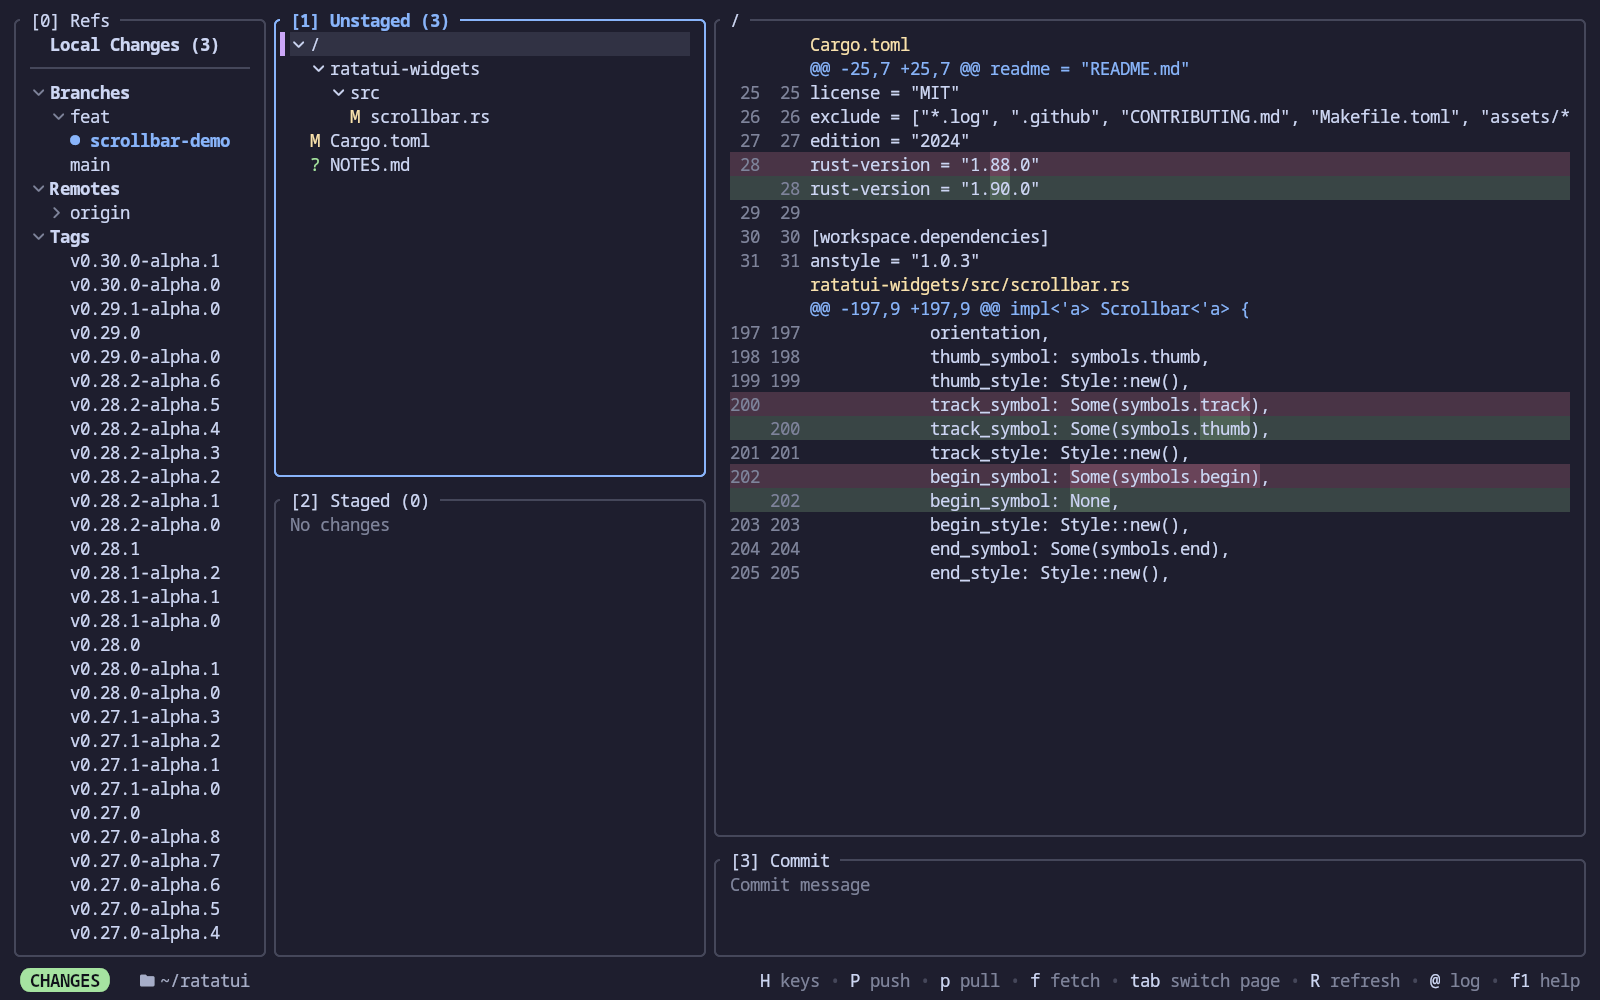
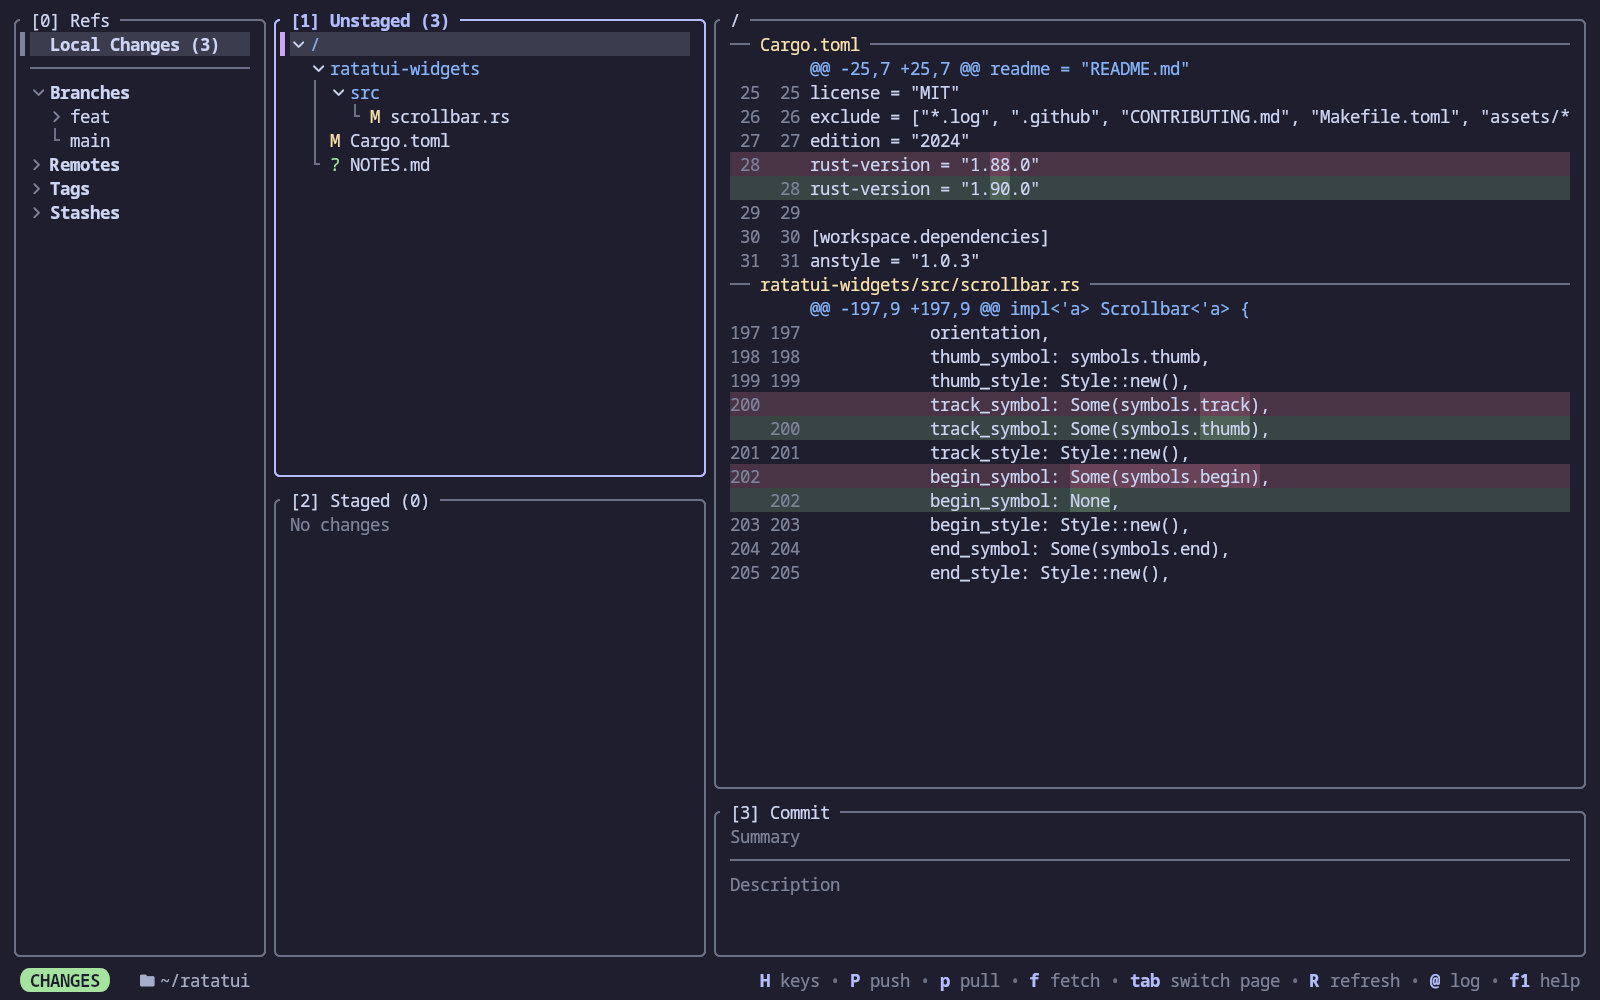
update demo

diff --git a/TODO.md b/TODO.md
@@ -9,7 +9,3 @@ TODO:
    - Risk: squash, drop, amend and rebase from the graph look up commit parents in the loaded graph, and in a filtered graph those parents are wrong. Running them there could rewrite the wrong commits. I'd turn them off while the filter is on, with a message.
    - Not planned: following renames (--follow). git only supports it for a single file, and it doesn't work well with a graph.
 1. Interactive rebase, Shift R? need to find another keybind for refresh
-1. now, using enums is an example of preventing multiple booleans and triggering invalid states, passing something not null is
-   ensuring null cannot happen in the first place. the best guard is to ensure that state is impossible in the first place, check the
-   ones that you wrote compared to master and find any such enhancements
-1. regen demo.gif and the images
